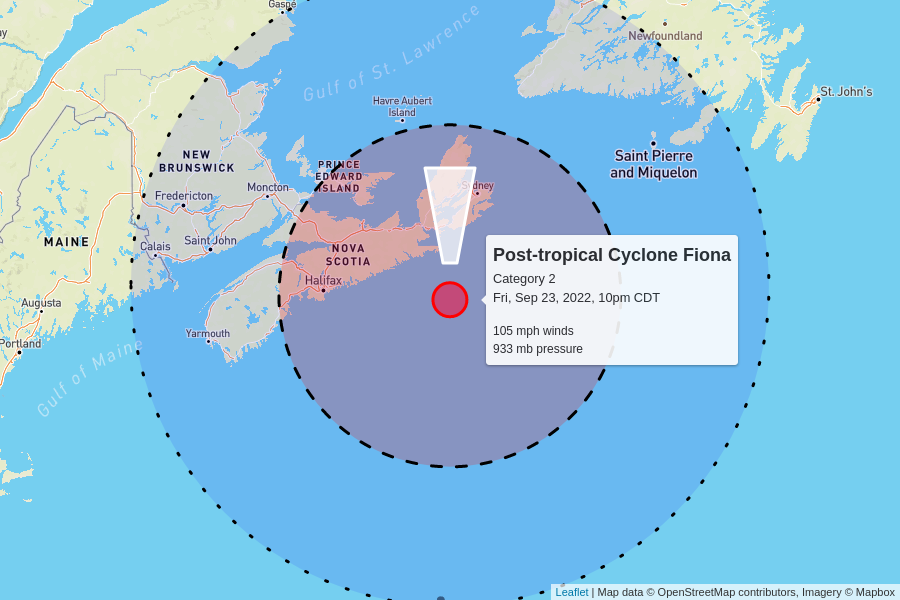
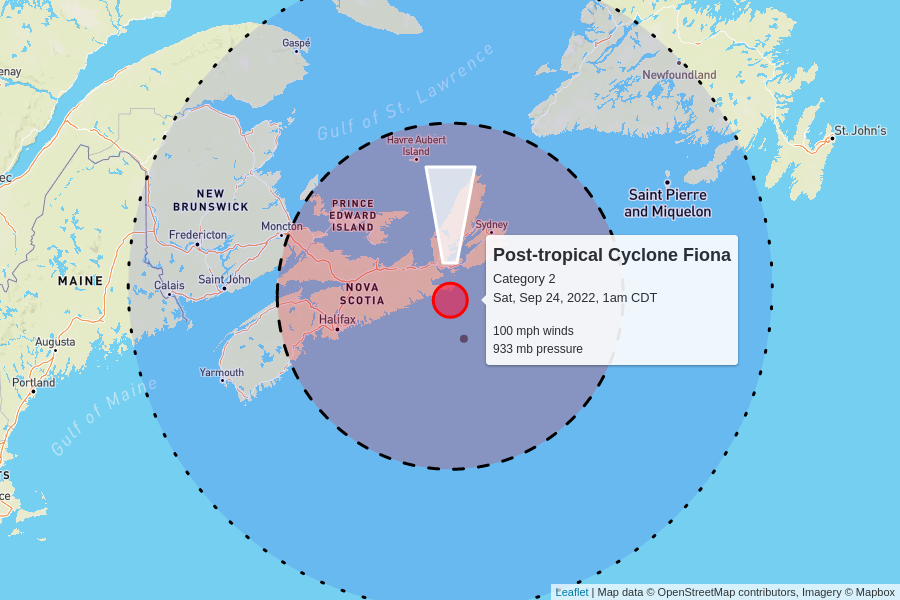
automatic update

diff --git a/docs/index.html b/docs/index.html
@@ -100,7 +100,7 @@
         <td colspan="6" class="storm category-2" >
           <h2>
             Post-tropical Cyclone Fiona - Category 2
-            <p class="updated">last updated <span data-time>2022-09-24T03:00:00.000Z</span></p>
+            <p class="updated">last updated <span data-time>2022-09-24T06:00:00.000Z</span></p>
           </h2>
         </td>
       </tr>
@@ -115,10 +115,10 @@
       </tr>
       <tr>
         <td class="spacer"></td>
-        <td>105 mph</td>
+        <td>100 mph</td>
         <td>933 mb</td>
         <td>
-          46 mph to the north
+          40 mph to the north
           <br/>
           <span style="display: inline-block; font-size: 1.5em; transform: rotate(360deg);">↑</span>
         </td>
@@ -144,7 +144,7 @@
         <td colspan="6" class="storm category-0" >
           <h2>
             Tropical Storm Gaston
-            <p class="updated">last updated <span data-time>2022-09-24T03:00:00.000Z</span></p>
+            <p class="updated">last updated <span data-time>2022-09-24T06:00:00.000Z</span></p>
           </h2>
         </td>
       </tr>
@@ -159,12 +159,12 @@
       </tr>
       <tr>
         <td class="spacer"></td>
-        <td>60 mph</td>
+        <td>50 mph</td>
         <td>999 mb</td>
         <td>
           8 mph to the southwest
           <br/>
-          <span style="display: inline-block; font-size: 1.5em; transform: rotate(235deg);">↑</span>
+          <span style="display: inline-block; font-size: 1.5em; transform: rotate(230deg);">↑</span>
         </td>
         <td><a href="https://raw.githubusercontent.com/mgwalker/atlantic-hurricanes/main/data/csv/AL082022.csv">AL082022.csv</a></td>
         <td><a href="https://www.nhc.noaa.gov/archive/2022/GASTON.shtml?">NHC advisories</a></td>
@@ -188,7 +188,7 @@
         <td colspan="6" class="storm category-0" >
           <h2>
             Tropical Storm Ian
-            <p class="updated">last updated <span data-time>2022-09-24T03:00:00.000Z</span></p>
+            <p class="updated">last updated <span data-time>2022-09-24T06:00:00.000Z</span></p>
           </h2>
         </td>
       </tr>
@@ -206,9 +206,9 @@
         <td>40 mph</td>
         <td>1005 mb</td>
         <td>
-          12 mph to the west-northwest
+          13 mph to the west
           <br/>
-          <span style="display: inline-block; font-size: 1.5em; transform: rotate(285deg);">↑</span>
+          <span style="display: inline-block; font-size: 1.5em; transform: rotate(275deg);">↑</span>
         </td>
         <td><a href="https://raw.githubusercontent.com/mgwalker/atlantic-hurricanes/main/data/csv/AL092022.csv">AL092022.csv</a></td>
         <td><a href="https://www.nhc.noaa.gov/archive/2022/IAN.shtml?">NHC advisories</a></td>
